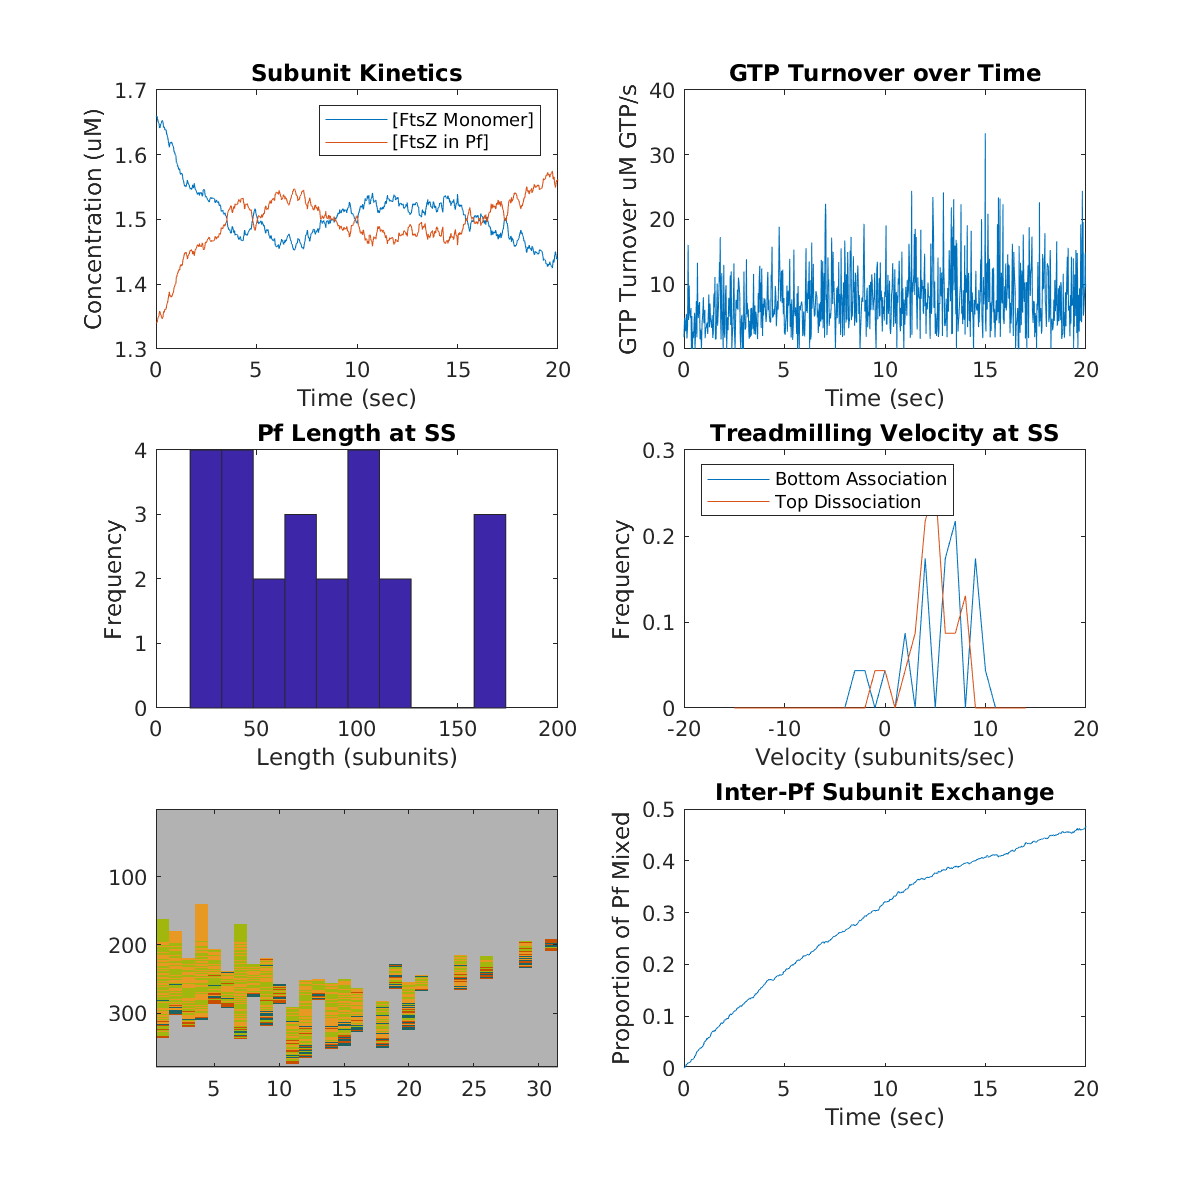
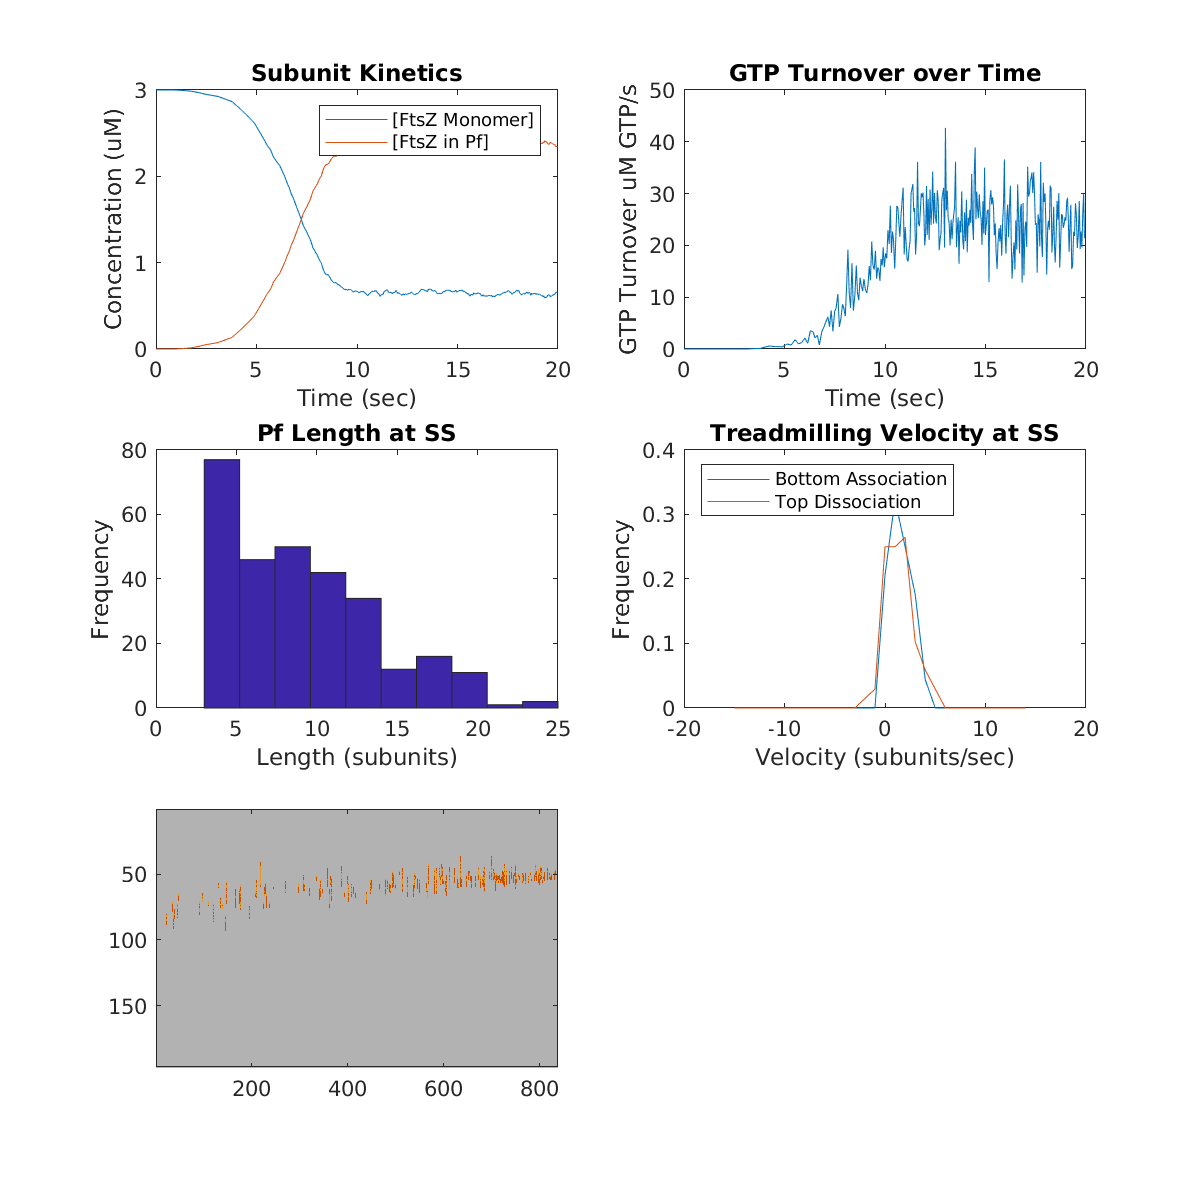
Added fragmentation and annealing. Have not tested fragmentation fully yet

diff --git a/lib/export/output340.html b/lib/export/output340.html
@@ -1,0 +1,37 @@
+<html>
+  <head>
+    <link rel="stylesheet" href="outputStyle.css">
+    <meta charset="UTF-8">
+    <title>Treadmill Model Output</title>
+  </head>
+  
+
+  <body>
+    <div id="includedContent"></div>
+    <div class="page">
+      
+      <div class="page-content">
+        <div class="text" style="top: 0in">
+          <h1>
+            FtsZ Treadmilling Model
+          </h1>
+          <object data="output/parametersTable1.html"> 
+            Your browser doesn’t support the object tag. 
+          </object>
+          <object data="output/parametersTable2.html"> 
+            Your browser doesn’t support the object tag. 
+          </object>
+          
+          <object data="output/resultsTable.html"> 
+            Your browser doesn’t support the object tag. 
+          </object>
+          <img src="output/output.png", class="figure">
+        </div>
+        
+        
+      </div>
+    </div>
+    
+  </body>
+
+</html>

diff --git a/lib/export/output/resultsTable.html b/lib/export/output/resultsTable.html
@@ -5,22 +5,22 @@
 	</tr>
 	<tr>
 		<td>[Monomer]</td>
-		<td>1.4392</td>
+		<td>0.65399</td>
 	</tr>
 	<tr>
 		<td>Hydrolysis</td>
-		<td>8.1423</td>
+		<td>24.5711</td>
 	</tr>
 	<tr>
 		<td>PF Length</td>
-		<td>78.2917</td>
+		<td>9.1203</td>
 	</tr>
 	<tr>
 		<td>Treadmill Velocity</td>
-		<td>5.5446</td>
+		<td>2.0776</td>
 	</tr>
 	<tr>
 		<td>Proportion GTP in PF</td>
-		<td>17.3497</td>
+		<td>64.5849</td>
 	</tr>
 </table>

diff --git a/lib/export/output/parametersTable1.html b/lib/export/output/parametersTable1.html
@@ -12,8 +12,8 @@
 		<td>3</td>
 	</tr>
 	<tr>
-		<td>FRET Experiment?</td>
-		<td>yes</td>
+		<td>PF Mixing Experiment?</td>
+		<td>no</td>
 	</tr>
 	<tr>
 		<td>[Cap]</td>
@@ -31,7 +31,7 @@
 	</tr>
 	<tr>
 		<td>GTP Hydrolysis</td>
-		<td>0.5</td>
+		<td>0.3</td>
 	</tr>
 	<tr>
 		<td>Affinity Switch</td>

diff --git a/lib/export/output/parametersTable2.html b/lib/export/output/parametersTable2.html
@@ -15,8 +15,8 @@
 	</tr>
 	<tr>
 		<td>Top Off</td>
-		<td>7.5</td>
-		<td>0.8</td>
+		<td>6.5</td>
+		<td>0.5</td>
 	</tr>
 	<tr>
 		<td>Bottom Subunit</td>
@@ -30,7 +30,7 @@
 	</tr>
 	<tr>
 		<td>Bottom Off</td>
-		<td>100</td>
-		<td>8</td>
+		<td>5</td>
+		<td>5</td>
 	</tr>
 </table>

diff --git a/lib/gillespie/determineTau.m b/lib/gillespie/determineTau.m
@@ -1,7 +1,9 @@
 function [allProbs, tau, Subunits] = determineTau(Subunits, allPfs, Kinetics);
   
   
-  totalGTPinPF = sum(countPfGtp(allPfs));
+  pfGtp = sum(countPfGtp(allPfs));
+  pfGdp = sum(countPfGdp(allPfs));
+
   [gdpPenultimateInd, gtpPenultimateInd] = countPenultimate(allPfs);
   [gdpBottomInd, gtpBottomInd] = countFtszBottom(allPfs);
 
@@ -19,7 +21,7 @@ function [allProbs, tau, Subunits] = determineTau(Subunits, allPfs, Kinetics);
 
   capBottomNum = gdpCapBottomNum + gtpCapBottomNum;
 
-  totalReactions = 16;
+  totalReactions = 18;
   reactant1 = zeros(1,totalReactions);
   reactant2 = zeros(1, totalReactions);
   kinetic = zeros(1, totalReactions);
@@ -57,7 +59,7 @@ function [allProbs, tau, Subunits] = determineTau(Subunits, allPfs, Kinetics);
 
   % GTP hydrolysis in PF
   num = 6;
-  reactant1(num) = totalGTPinPF;
+  reactant1(num) = pfGtp;
   reactant2(num) = 1;
   kinetic(num) = Kinetics.khyd;
 
@@ -120,6 +122,19 @@ function [allProbs, tau, Subunits] = determineTau(Subunits, allPfs, Kinetics);
   reactant1(num) = Subunits.monomerNum;
   reactant2(num) =  Subunits.capDimerNum/(1+Kinetics.knuc); %%%%% CHANGE HERE %%%%%%
   kinetic(num) =  secondOrderConverter(Kinetics.ktongtp);
+
+  % PF annealing
+  num = 17;
+  reactant1(num) = gtpBottomNum;
+  reactant2(num) = gtpPenultimateNum - 1;
+  kinetic(num) =  secondOrderConverter(Kinetics.kanneal);
+
+  % PF fragmentation
+  num = 18;
+  reactant1(num) = pfGdp;
+  reactant2(num) = 1;
+  kinetic(num) =  Kinetics.kfragment;
+
 
   allProbs = reactant1.*reactant2.*kinetic;
 

diff --git a/tests/gillespie/anneal_test.m b/tests/gillespie/anneal_test.m
@@ -1,0 +1,51 @@
+function h = anneal_test
+  allPFsBefore = {[1], [2; 3; 1; 1], [2], [1; 4; 5], [0],[],[2; 2; 1; 2; 4; 2],[2; 2; 1; 2; 4; 3], [2; 1], [4; 2]};
+
+
+  possibleBottom = [4, 7, 8, 10];
+  
+  possibleTop = [7, 10];
+  observedBottom = zeros(size(possibleBottom));
+  observedTop = zeros(size(possibleTop));
+
+  
+
+
+  for repeat = 1:100
+
+    pfBottomFound = 0;
+    pfTopFound = 0;
+    [allPFsAfter] = anneal(allPFsBefore);
+
+    for ii=1:length(allPFsAfter)
+      if (sum(allPFsBefore{ii})~= sum(allPFsAfter{ii}))
+        
+        if sum(allPFsAfter{ii})==0 && sum(allPFsBefore{ii})>0
+          % ii is the PF bottom
+          pfBottomFound = pfBottomFound + 1;
+          [~, pfInd] = find(possibleBottom==ii);
+          observedBottom(pfInd) = observedBottom(pfInd) + 1;
+        elseif sum(allPFsAfter{ii})>0
+          % ii is the PF top
+          pfTopFound = pfTopFound + 1;
+          [~, pfInd] = find(possibleTop==ii);
+          
+          observedTop(pfInd) = observedTop(pfInd) + 1;
+
+  
+        end
+      end
+    end
+
+    assert(pfBottomFound==1);
+    assert(pfTopFound==1);
+
+
+  end
+
+  expectedTop = [50, 50];
+  expectedBottom = [2, 1, 2, 1]./6.*100;
+  h = chiSquared(observedBottom, expectedBottom, 0.05);
+  h = h + chiSquared(observedTop, expectedTop, 0.05);
+  h = h./2;
+end

diff --git a/lib/runExperiment.m b/lib/runExperiment.m
@@ -60,8 +60,10 @@ function Outputs = runExperiment(Parameters, Kinetics, popup)
           [allPfs, Subunits, pfLocations, gdpOffCount] = capGdpFtszComplexOffPf(allPfs, Subunits, pfLocations, gdpOffCount);
         case 16 % Nucleate new PF from T state FtsZ:Cap heterodimer and R state monomer
           [allPfs, pfLocations, Subunits] = nucleationCap(allPfs, pfLocations, Subunits, gtpColor);
-        case 20
-          currentTime = roundTime;
+        case 17 % PF Annealing
+          allPfs = anneal(allPfs);
+        case 18 % PF Fragmentation
+          [allPfs, pfLocations] = fragmentation(allPfs, pfLocations);
         end
       
       % Housekeeping, done every so often

diff --git a/lib/data/kineticsBs.m b/lib/data/kineticsBs.m
@@ -1,22 +1,25 @@
 function Kinetics = kineticsBs()
   Kinetics.kbongtp = 10;
-  Kinetics.kboffgtp = 8;
+  Kinetics.kboffgtp = 5;
 
   Kinetics.kbongdp = 10;
-  Kinetics.kboffgdp = 100;
+  Kinetics.kboffgdp = 5;
 
   Kinetics.ktongdp = 0.1; 
-  Kinetics.ktoffgdp = 7.5;
+  Kinetics.ktoffgdp = 6.5;
 
   Kinetics.ktongtp = 1;
-  Kinetics.ktoffgtp = 0.8;      
+  Kinetics.ktoffgtp = 0.5;      
 
   Kinetics.capKd = 0.15;
   Kinetics.kcaponpf = 10;
   Kinetics.kcapoffpf = 8; 
   Kinetics.kcapoffpfgdp = 100;
 
-  Kinetics.khyd = 0.5;
+  Kinetics.khyd = 0.3;
   Kinetics.kgdpexchange = 1;
   Kinetics.knuc = 30000;
+
+  Kinetics.kanneal = 0.1;
+  Kinetics.kfragment = 0;
 end

diff --git a/lib/gillespie/fragmentation.m b/lib/gillespie/fragmentation.m
@@ -1,0 +1,18 @@
+function [allPfs, pfLocations] = fragmentation(allPfs, pfLocations)
+  totalGTP = 0;
+  pfGdp= countPfGdp(allPfs);
+  
+  totalGdp = sum(pfGdp);
+  normalizedPfGdp = pfGdp./totalGdp;
+  sumNormPfGdp = cumsum(normalizedPfGdp);
+
+  r = rand;
+  lessThanInd = find(r<sumNormPfGdp);
+  fragmentedPfInd = lessThanInd(1);
+  pf = allPfs{fragmentedPfInd};
+  gdpInd = [find(pf == 1); find(pf == 3); find(pf == 5)];
+  interfaceSubunitInd = gdpInd(ceil(rand.*(length(gdpInd))));
+  allPfs{fragmentedPfInd} = pf(1:interfaceSubunitInd);
+  allPfs{length(allPfs)+1} = pf(interfaceSubunitInd+1:end);
+  pfLocations = [pfLocations 0];
+end

diff --git a/lib/gillespie/anneal.m b/lib/gillespie/anneal.m
@@ -1,0 +1,19 @@
+function [allPfs] = anneal(allPfs)
+  [~, gtpBottomInd] = countFtszBottom(allPfs);
+  chosenPfTop = ceil(rand.*(length(gtpBottomInd)));
+  chosenPfTop = gtpBottomInd(chosenPfTop);
+  pfTop = allPfs{chosenPfTop};
+
+
+  [~, gtpPenultimateInd] = countPenultimate(allPfs);
+  [~, ind] = find(chosenPfTop == gtpPenultimateInd);
+  gtpPenultimateInd(ind) = [];
+  chosenPfBottom = ceil(rand.*(length(gtpPenultimateInd)));
+  chosenPfBottom = gtpPenultimateInd(chosenPfBottom);
+  pfBottom = allPfs{chosenPfBottom};
+
+
+  allPfs{chosenPfTop} = [pfTop; pfBottom];
+  allPfs{chosenPfBottom} = [0];
+
+end

diff --git a/tests/gillespie/determineTau_test.m b/tests/gillespie/determineTau_test.m
@@ -30,7 +30,7 @@ Subunits.monomerNum = 8;
 
 [allProbs, tau] = determineTau(Subunits, allPFs, Kinetics);
 
-allProbsGoal = zeros(1, 14);
+allProbsGoal = zeros(1, 17);
 
 allProbsGoal(1) = 2.*2; % Cap dimer off pf
 allProbsGoal(2) = 3.*5.*secondOrderConverter(5.3); % Cap dimer on pf
@@ -57,6 +57,10 @@ allProbsGoal(14) = 1.*8.*secondOrderConverter(14); % Bottom on GDP
 
 allProbsGoal(15) = 4.*3;
 allProbsGoal(16) = 8.*5./(1+5000).*secondOrderConverter(4);
+
+allProbsGoal(17) = 3.*4.*secondOrderConverter(0.1);
+
+
 
 for ii=1:length(allProbs)
    assert(abs(allProbs(ii)-allProbsGoal(ii))<0.00001)

diff --git a/@RunApp/formatApp.m b/@RunApp/formatApp.m
@@ -29,6 +29,9 @@ function app = formatApp(app)
   addKinetic(app, 'khyd', [0.43, 0.43], 1);
   addKinetic(app, 'knuc', [0.35, 0.91], 0);
 
+  addKinetic(app, 'kanneal', [0.43, 0.5], 4);
+  addKinetic(app, 'kfragment', [0.43, 0.55], 2);
+
   %set(app.modelPanel, 'Units', 'normalized');
   %% Input Panel Components
   app.InputPanel = uipanel('Parent',app.Figure,'Title','Configure Experiment','FontSize',14,'Position',[0.02 0.02 0.47 0.15],'BackgroundColor','w');
